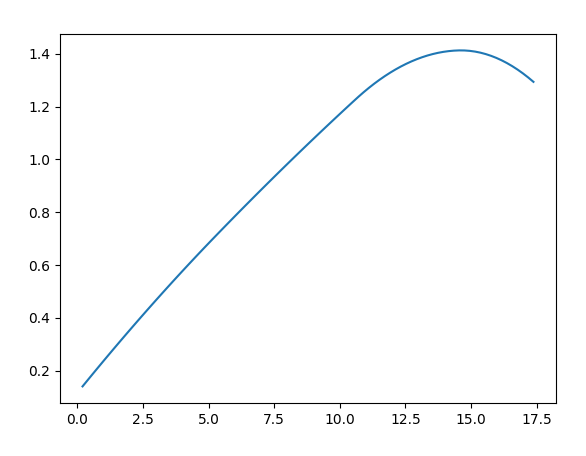
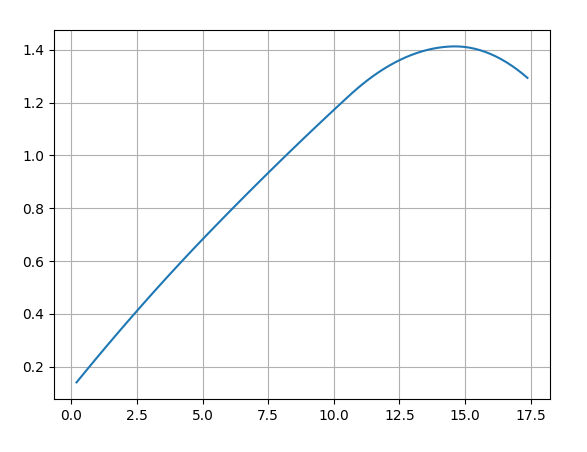
Update examples in README

diff --git a/examples/curve_load.py b/examples/curve_load.py
@@ -4,9 +4,15 @@ import matplotlib.pyplot as plt
 
 curve_id = 'spl_K5t56P5bormJ'
 spline = load_spline(curve_id)
+columns, table = spline.load_data()
 
 X = np.linspace(0, 20, 100)
 Y = [spline.eval(x) for x in X]
+x_data, y_data = table.T
 
 plt.plot(X,Y)
+plt.plot(x_data, y_data, 'o', color="grey")
+plt.grid()
+plt.xlabel(columns[0])
+plt.ylabel(columns[1])
 plt.show()

diff --git a/README.md b/README.md
@@ -10,6 +10,7 @@ The client library is based on [SciPy](https://scipy.org/) and allows to load da
 
 ```python
 from splinecloud_scipy import load_spline
+
 curve_id = 'spl_K5t56P5bormJ' # take curve ID from the 'API link' dropdown at SplineCloud
 spline = load_spline(curve_id)
 ```
@@ -24,10 +25,35 @@ X = np.linspace(0, 20, 100)
 Y = [spline.eval(x) for x in X]
 
 plt.plot(X,Y)
+plt.grid()
 plt.show()
 ```
 
 ![Spline curve](/docs/img/curve.png?raw=true)
+
+## Load data fitted by spline and evaluate fit accuracy
+
+```python
+columns, table = spline.load_data()
+x_data, y_data = table.T
+
+plt.plot(X,Y)
+plt.plot(x_data, y_data, 'o', color="grey")
+plt.grid()
+plt.xlabel(columns[0])
+plt.ylabel(columns[1])
+plt.show()
+```
+
+![Spline curve](/docs/img/curve_points.png?raw=true)
+
+```python
+RMSE = spline.fit_accuracy(table, method="RMSE")
+print(RMSE)
+
+0.011307453345329156
+```
+
 
 ## Example of loading data in your code
 
